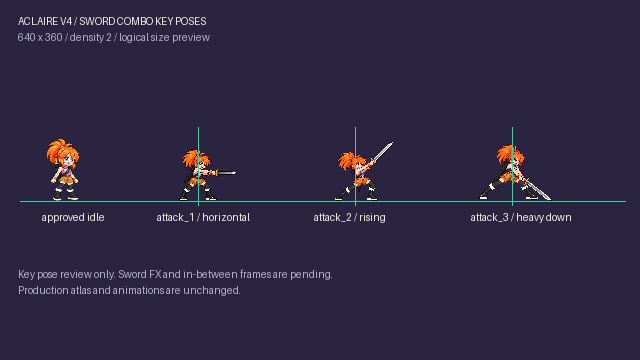
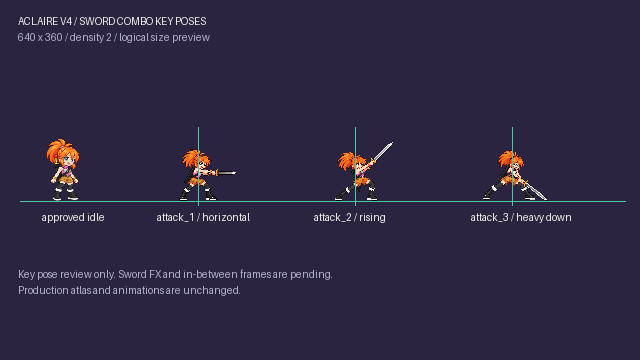
art(player): align third attack key pose scale

Changed region(s): [[0.75, 0.3972, 0.875, 0.55]]

diff --git a/tools/art/build_player_attack_key_review.py b/tools/art/build_player_attack_key_review.py
@@ -25,6 +25,10 @@ def key_frame(path: Path) -> tuple[Image.Image, dict]:
     eye = eye_center(source)
     scale = .985 * min(120 / (box[3] - box[1]),
                       (TIP_LIMIT - EYE_X) / (box[2] - eye[0]))
+    if path == SOURCES['attack_3']:
+        # The generated finisher reads larger than the first two poses.
+        # Reduce it uniformly while keeping the planted sole on the baseline.
+        scale *= .90
     cropped = source.crop(box)
     size = (round(cropped.width * scale), round(cropped.height * scale))
     image = indexed(cropped.resize(size, Image.Resampling.NEAREST))

diff --git a/art/reports/2026-10-25_aclaire_attack_key_poses.md b/art/reports/2026-10-25_aclaire_attack_key_poses.md
@@ -16,9 +16,9 @@ Three key poses are ready for Pinz's review. They are concept frames only; the p
 | --- | --- | ---: | --- |
 | `attack_1` | forward horizontal slash | 39.5 logical px | 192×128 |
 | `attack_2` | diagonal rising slash | 38.5 logical px | 192×128 |
-| `attack_3` | heavy downward ground contact | 40.0 logical px | 192×128 |
+| `attack_3` | heavy downward ground contact | 36.5 logical px | 192×128 |
 
-All three frames have binary alpha, colors mapped to the approved V4 palette (183, 184 and 195 opaque colors), and a sole on row 127. The eye is near frame x=105, matching approved idle's +9 physical px eye offset from the bottom-center pivot. The sheath stays on the back while the sword is drawn.
+All three frames have binary alpha, colors mapped to the approved V4 palette (183, 184 and 183 opaque colors), and a sole on row 127. The eye is near frame x=105, matching approved idle's +9 physical px eye offset from the bottom-center pivot. The sheath stays on the back while the sword is drawn. After Pinz noted that `attack_3` read taller, its whole pose was reduced uniformly by 10% and re-anchored to the same sole row. Its top opaque row is now 27, close to `attack_1` row 25; `attack_2` reaches higher because its sword points upward.
 
 ## Built-in imagegen prompt set
 
